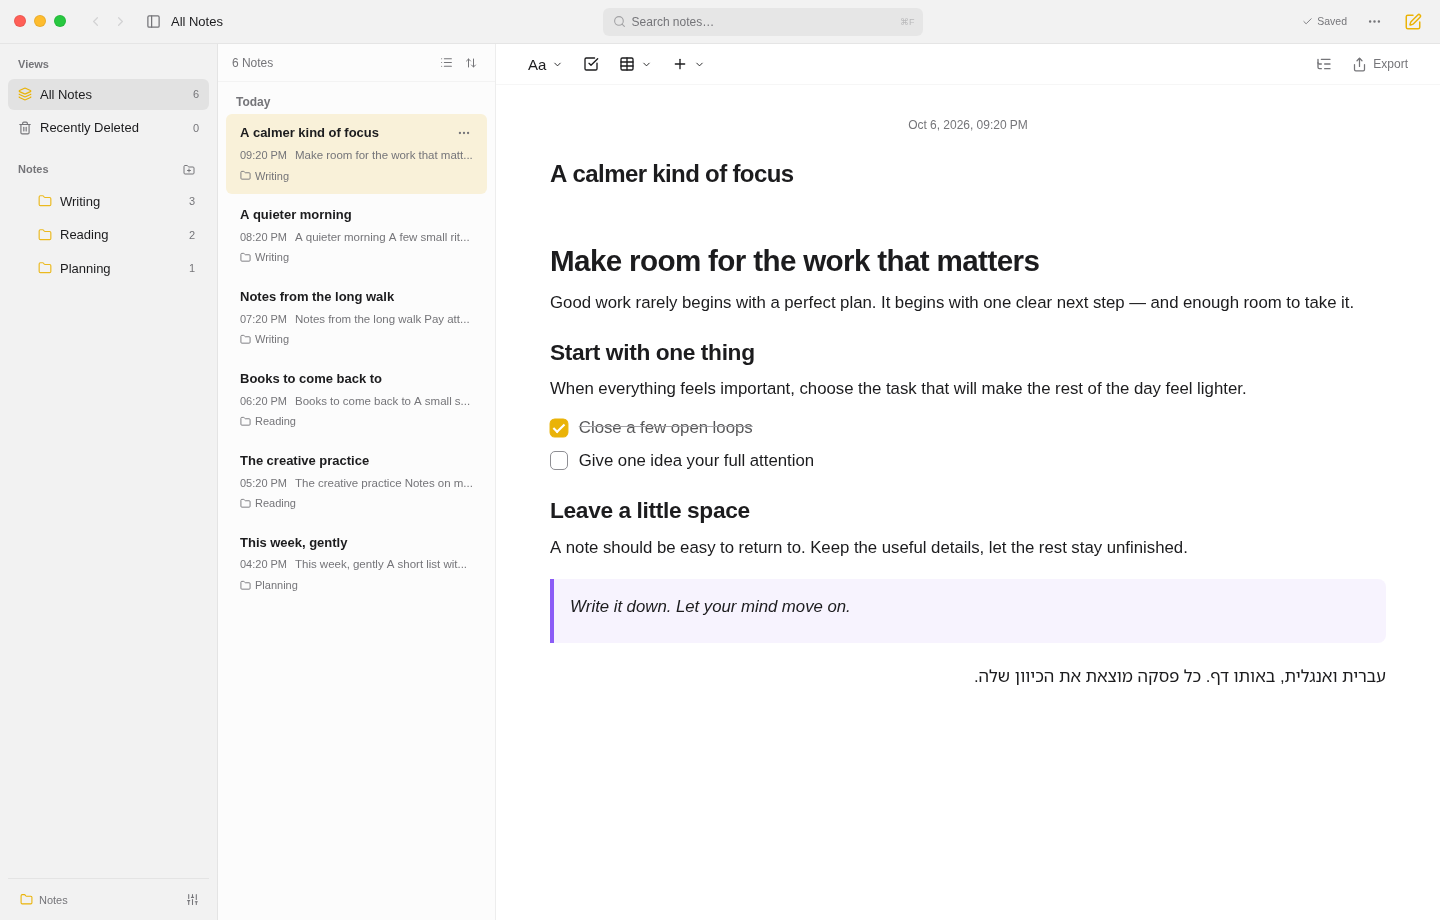
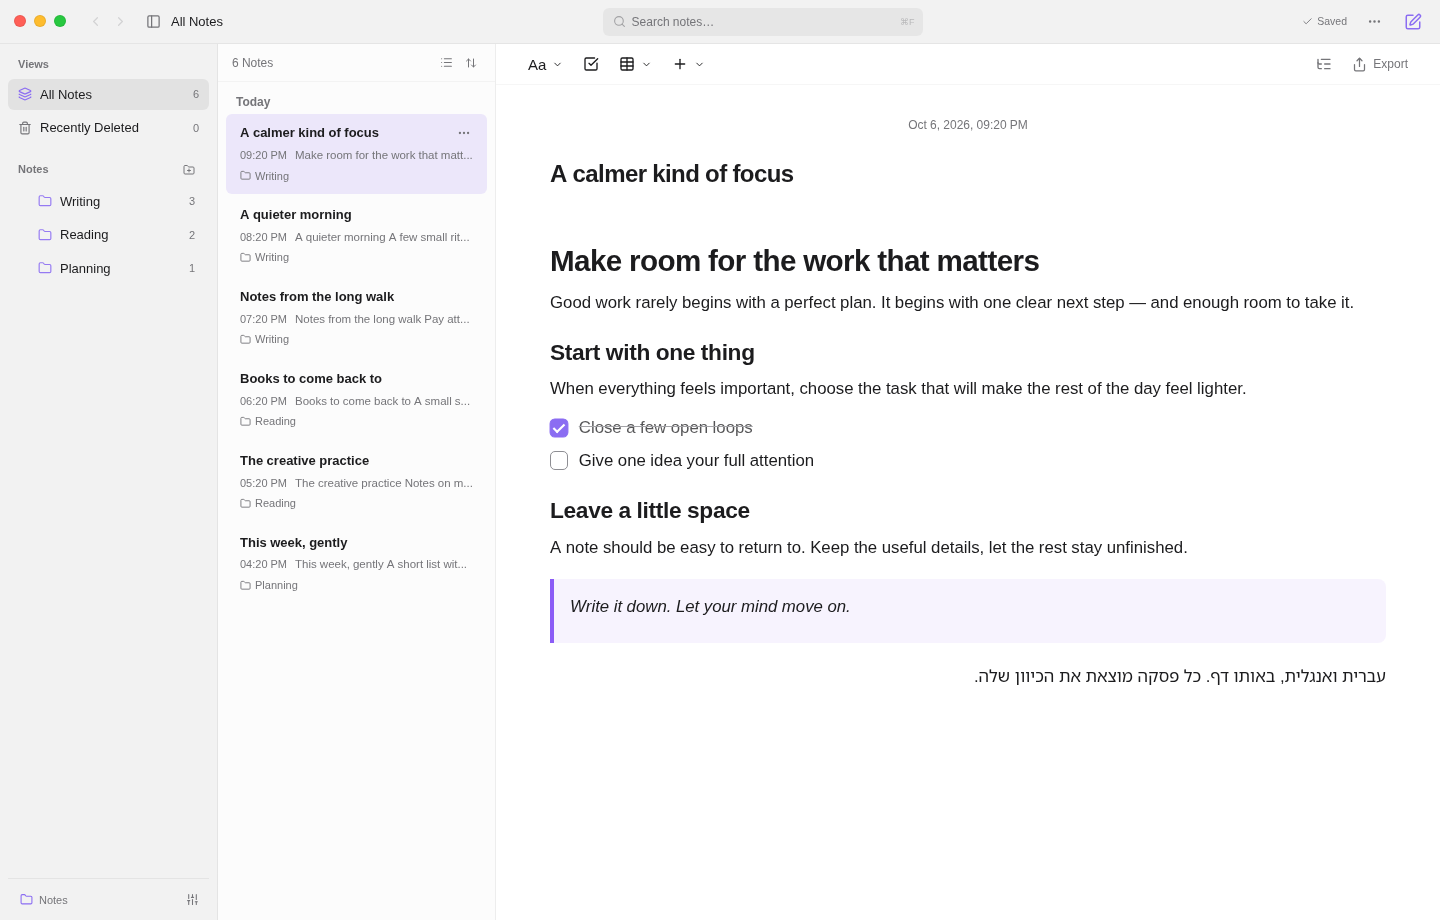
Polish README light and dark mode preview

Changed region(s): [[0.1562, 0.1217, 0.3438, 0.213], [0.9688, 0.0, 1.0, 0.0304], [0.375, 0.4565, 0.4062, 0.487]]

diff --git a/README.md b/README.md
@@ -7,8 +7,9 @@
 </div>
 
 <p align="center">
-  <img src="docs/images/scribe-preview.png" alt="Scribe open to a sample note, with folders, a note list, formatting controls, and Hebrew and English text in the editor" width="960" />
+  <img src="docs/images/scribe-light-dark.png" alt="Scribe shown side by side in light and dark modes, editing the same sample note in Hebrew and English" width="960" />
 </p>
+<p align="center"><sub>View the <a href="docs/images/scribe-preview.png">light</a> and <a href="docs/images/scribe-preview-dark.png">dark</a> screenshots at full size.</sub></p>
 
 ## Why Scribe?
 
